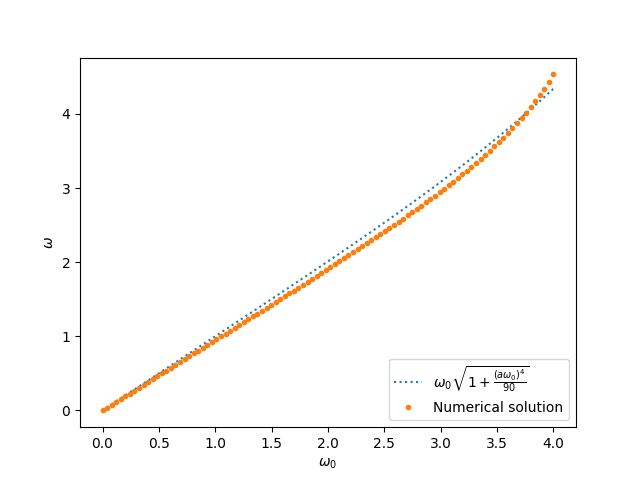
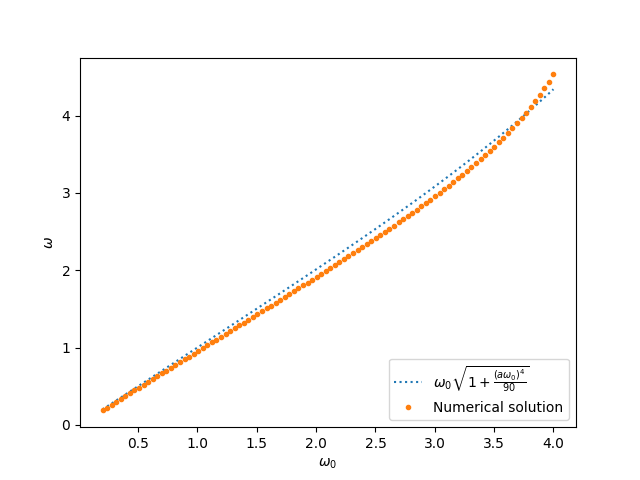
Fixed Harmonic_Oscillator_Modified and added descriptive comments

diff --git a/Harmonic_Oscillator_Solutions.py b/Harmonic_Oscillator_Solutions.py
@@ -7,10 +7,13 @@ N = 20 #total lattice sites
 T = a*N #total time
 Npoints = 100
 t = np.linspace(0, T, N) #time axis
-Option = 'Improved'
-w0=np.linspace(0,4,Npoints) #known frequency of the oscillator
+improved = True
+w0=np.linspace(0.2,4,Npoints) #known frequency of the oscillator
 
-
+#The following function defines the matrix associated with the discretization of the
+#differential operator of the equations of motion. The discretization is done based on the
+#central difference formula of the second derivative at first order.
+#It takes as input the oscillator frequency w0 and returns a NxN array M
 def SystemMatrix(w0):
     M = np.zeros((N,N))
     for i in range(N):
@@ -23,6 +26,11 @@ def SystemMatrix(w0):
             M[ip][i] = 1
     return M
 
+
+#The following function defines the matrix associated with the discretization of the
+#differential operator of the equations of motion. The discretization is done based on the
+#improved formula for the second derivative (second order formula).
+#It takes as input the oscillator frequency w0 and returns a NxN array M
 def SystemMatrixImproved(w0):
     M = np.zeros((N,N))
     for j in range(N):
@@ -41,7 +49,9 @@ def SystemMatrixImproved(w0):
             M[jp2][j] = -1/12
     return M
 
-
+#The following function solves the linear system Mx = h where M is the matrix of the unimproved second derivative,
+# and h is a length-N array, h = [-x0,0...,0,xN] where x0 and xN are passed as inputs, together with the oscillator frequency w0.
+#It returns an array x solution to the aforementioned system.
 def Solve(w0,x0, xN):
     h = np.zeros(N)
     h[0] = -x0
@@ -50,6 +60,10 @@ def Solve(w0,x0, xN):
     x = np.linalg.solve(M,h)
     return x
 
+#The following function solves the linear system Mx = h where M is the matrix of the improved second derivative and
+# h is a length-N array, h = [(1/12 x1-4/3 x0),(1/12)x0,0...,0,1/12 xN,(1/12 xNm1-4/3 xN)]
+# where x0,x1,xNm1 and xN are passed as inputs, together with the oscillator frequency w0.
+#It returns an array x solution to the aforementioned system.
 def SolveImproved(w0,x0,x1,xNm1,xN):
     h = np.zeros(N)
     h[0]=(1/12)*x1-(4/3)*x0
@@ -60,36 +74,41 @@ def SolveImproved(w0,x0,x1,xNm1,xN):
     x = np.linalg.solve(M,h)
     return x
 
+#Parametric custom-made exponential function for fit purposes
 def exp(x,A,w):
     return A*np.exp(-w*x)
 
-
-def PlotSolution(Option, w0, w_exp, w_sol):
+#The following function plots the solution in a graph containing both the numerical solution w_sol
+#and its expected behaviour w_exp. Alongside these, it takes as input a boolean switch improved, which selects
+#whether to graph an improved or uninproved expectation for w, and the array of frequencies w0
+def PlotSolution(improved, w0, w_exp, w_sol):
     fig = plt.figure()
-    if Option == 'Std':
-        l1=plt.plot(w0,w_exp,label = r'$\omega_0\sqrt{1-\frac{(a\omega_0)^2}{12}}$', linestyle = 'dotted')
-        l2 = plt.plot(w0,w_sol, label = 'Numerical solution', linestyle='none', marker = '.')
-
-    if Option == 'Improved':
+    if improved:
         l1=plt.plot(w0,w_exp,label = r'$\omega_0\sqrt{1+\frac{(a\omega_0)^4}{90}}$', linestyle = 'dotted')
-        l2 = plt.plot(w0,w_sol, label = 'Numerical solution', linestyle='none', marker = '.')
+    else:
+        l1=plt.plot(w0,w_exp,label = r'$\omega_0\sqrt{1-\frac{(a\omega_0)^2}{12}}$', linestyle = 'dotted')
 
+    l2 = plt.plot(w0,w_sol, label = 'Numerical solution', linestyle='none', marker = '.')
     plt.xlabel(r'$\omega_0$')
     plt.ylabel('$\omega$')
     plt.legend(loc='lower right')
     plt.show()
 
-
-def HarmonicOscillatorSolution(w0,Option, Npoints=100):
+#The following function solves the equations of motion of a Harmonic Oscillator
+#with frequency varying as in the array w0 passed as input. Alongside this, it takes as inputs
+#a boolean switch improved, and an optional integer argument Npoints which lets the user select the number of
+#points in the final graph.
+#Finally, it plots the numerical solution with the expected behaviour as a function of w0.
+def HarmonicOscillatorSolution(w0,improved, Npoints=100):
     x_sol = np.zeros((Npoints,N))
     w_sol = np.zeros(Npoints)
     w_exp = np.zeros(Npoints)
-    x0 = np.exp(0)
+    x0 = np.exp(0) #x0 = e^(-w*0), initial point of the lattice
     for k in range(Npoints):
-        xN = np.exp(-w0[k]*T)
-        if Option == 'Improved':
-            x1 = np.exp(w0[k]*a)
-            xNm1 = np.exp(-w0[k]*(T-a))
+        xN = np.exp(-w0[k]*T)#xN = e^(-w*T) final point of the lattice
+        if improved:
+            x1 = np.exp(w0[k]*a)#for improved case we consider x1= e^(-w*(-a))
+            xNm1 = np.exp(-w0[k]*(T-a))# xNm1 = e^(-w*(T-a))
             x_sol[k] = SolveImproved(w0[k],x0,x1,xNm1,xN)
             w_exp[k] = w0[k]*np.sqrt(1+((a*w0[k])**4)/90)
 
@@ -97,10 +116,11 @@ def HarmonicOscillatorSolution(w0,Option, Npoints=100):
             x_sol[k] = Solve(w0[k], x0, xN)
             w_exp[k] = w0[k]*np.sqrt(1-((a*w0[k])**2)/12)
 
+#Fitting the solution with the exponential function to retrieve w_sol
         optpar, cov = opt.curve_fit(exp, t, x_sol[k], p0 = (0.1, w0[k]))
         w_sol[k] = optpar[1]
-    PlotSolution(Option,w0, w_exp, w_sol)
+    PlotSolution(improved,w0, w_exp, w_sol)
 
 
-
-HarmonicOscillatorSolution(w0,Option, Npoints = Npoints)
+#Main body:
+HarmonicOscillatorSolution(w0,improved, Npoints = Npoints)

diff --git a/Harmonic_Oscillator_Solutions_Modified.py b/Harmonic_Oscillator_Solutions_Modified.py
@@ -1,32 +1,75 @@
 import numpy as np
-from scipy.optimize import fsolve
+from scipy import optimize as opt
 import matplotlib.pyplot as plt
 
 a=0.5 #lattice spacing
 N = 20 #total lattice sites
-w0=np.linspace(0,4,100) #known frequency of the oscillator
-w_sol = np.zeros(100)
-w_exp = np.zeros(100)
-w_guess = 1
+T = a*N #total time
+Npoints = 100
+t = np.linspace(0, T, N) #time axis
+w0=np.linspace(0.5,4,Npoints)
 
-#Order-a^2 second derivative: central method numerical differentiation.
-def D(x,j):
-    jp = (j+1)%N
-    jm = (j-1)%N
-    return (x[jp]-2*x[j]+x[jm])/(a**2)
+#The following function defines the matrix associated with the discretization of the
+#differential operator of the second derivative. The discretization is done based on the
+#central difference formula at first order with transformed anharmonic potential.
+# It takes as input the oscillator frequency w0 and returns a NxN array M
+def SystemMatrixTransformed(w0):
+    M = np.zeros((N, N))
+    for j in range(N):
+        jm = (j-1)
+        jp = (j+1)
+        if jm >= 0:
+            M[jm][j] = 1
+        M[j][j] = -(2 + (a*w0)**2*(1+(a*w0)**2/12))
+        if jp < N:
+            M[jp][j] = 1
+    return M
 
-def f_mod(w,w0,j):
-    x=[np.exp(-a*k*w) for k in range(N)]
-    return D(x,j) - w0**2*(1+(a*w0)**2/12)*x[j]
+#The following function solves the linear system Mx = h where M is the matrix of the transformed discretization of the eqs,
+# and h is a length-N array, h = [-x0,0...,0,xN] where x0 and xN are passed as inputs, together with the oscillator frequency w0.
+#It returns an array x solution to the aforementioned system.
+def SolveTransformed(w0,x0, xN):
+    h = np.zeros(N)
+    h[0] = -x0
+    h[-1] = xN
+    M = SystemMatrixTransformed(w0)
+    x = np.linalg.solve(M,h)
+    return x
 
-for n in range(100):
-    w_sol[n] = fsolve(f_mod,w_guess, args=(w0[n], 2))
-    w_exp[n] = w0[n]*np.sqrt(1+(a*w0[n])**4/90)
 
-fig = plt.figure()
-l1=plt.plot(w0,w_exp,label = r'$\omega_0 \sqrt{1+\frac{(a\omega_0)^4}{90}}$', linestyle = 'dotted')
-l2 = plt.plot(w0,w_sol, label = 'Numerical solution', linestyle='none', marker = '.')
-plt.xlabel(r'$\omega_0$')
-plt.ylabel('$\omega$')
-plt.legend(loc='lower right')
-plt.show()
+#Parametric custom-made exponential function for fit purposes
+def exp(x,A,w):
+    return A*np.exp(-w*x)
+
+#The following function plots the solution in a graph containing both the numerical solution w_sol
+#and its expected behaviour w_exp. Alongside these, it takes as input the array of known frequencies w0
+def PlotSolution(w0, w_exp, w_sol):
+    fig = plt.figure()
+    l1=plt.plot(w0,w_exp,label = r'$\omega_0\sqrt{1-\frac{(a\omega_0)^4}{360}}$', linestyle = 'dotted')
+    l2 = plt.plot(w0,w_sol, label = 'Numerical solution', linestyle='none', marker = '.')
+    plt.xlabel(r'$\omega_0$')
+    plt.ylabel('$\omega$')
+    plt.legend(loc='lower right')
+    plt.show()
+
+#The following function solves the equations of motion of a Harmonic Oscillator
+#with frequency varying as in the array w0, passed as input, with the transformed anharmonic potential.
+# It also has an optional argument Npoints which lets the user select the number of
+#points in the final graph.
+#It finally plots the numerical solution with the expected behaviour as a function of w0.
+def HarmonicOscillatorSolution(w0, Npoints=100):
+    x_sol = np.zeros((Npoints,N))
+    w_sol = np.zeros(Npoints)
+    w_exp = np.zeros(Npoints)
+    x0 = np.exp(0)
+    for k in range(Npoints):
+        xN = np.exp(-w0[k]*T)
+        x_sol[k] = SolveTransformed(w0[k], x0, xN)
+        w_exp[k] = w0[k]*np.sqrt(1-((a*w0[k])**4)/360)
+#Fitting the solution with the exponential function to retrieve w_sol
+        optpar, cov = opt.curve_fit(exp, t, x_sol[k], p0 = (0.1, w0[k]))
+        w_sol[k] = optpar[1]
+    PlotSolution(w0, w_exp, w_sol)
+
+#Main Body
+HarmonicOscillatorSolution(w0)
